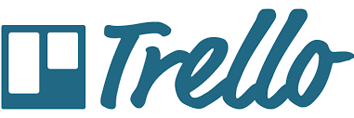
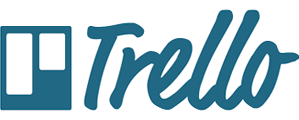
added eight tasks changed trello image size to match other images'size, and makes all images responsive

diff --git a/awesomeagile-webapp/src/main/resources/static/index.html b/awesomeagile-webapp/src/main/resources/static/index.html
@@ -10,8 +10,9 @@
 </head>
 <body>
     <div class="container">
-        <header class="page-header">
-            <h1>Awesome Agile <small>An Agile Coaching Resource</small></h1>
+        <header class="page-header row">
+            <div id="logo" class="col-sm-12">Awesome Agile </div>
+            <div id="subtitle" class="col-sm-offset-2 col-sm-10 col-xs-offset-1 col-sm-11">An Agile Coaching Resource</div>
         </header>
         <div class="row">
             <div class="svg-container">
@@ -95,21 +96,31 @@
                     </g>
                 </svg>
             </div>
+            <div class="row">
+	            <div class="col-xs-6 col-sm-3 panel panel-info"><span class="glyphicon glyphicon-open"></span> Definition of Ready</div>
+	            <div class="col-xs-6 col-sm-3 panel panel-info "><span class="glyphicon glyphicon-save"></span> Definition of Done </div>
+	            <div class="col-xs-6 col-sm-3 panel panel-info"> <span class="glyphicon glyphicon-user"></span> User Stories</div>
+	            <div class="col-xs-6  col-sm-3 panel panel-info"> <span class="glyphicon glyphicon-th"></span> Backlog Refinement</div>
+	            <div class="col-xs-6  col-sm-3 panel panel-info"><span class="glyphicon glyphicon-cog"></span> Source Code Control</div>
+	            <div class="col-xs-6  col-sm-3 panel panel-info"><span class="glyphicon glyphicon-retweet"></span> Continuous Integration</div>
+	            <div class="col-xs-6  col-sm-3 panel panel-info"><span class="glyphicon glyphicon-gift"></span> Pair Programming</div>
+	            <div class="col-xs-6  col-sm-3 panel panel-info"><span class="glyphicon glyphicon-tasks"></span> Estimation</div>
+            </div>
             <div class="col-xs-12 col-sm-12 col-md-12">
                 <div class="panel panel-info">
                     <div class="panel-heading">Tools</div>
                     <div class="panel-body">
                         <div class="col-xs-6 col-md-3">
-                            <a href="#" class="thumbnail"><img src="images/hackpad.png" alt="hackpad"></a>
+                            <a href="#" class="thumbnail"><img src="images/hackpad.png" alt="hackpad" class="img-responsive"></a>
                         </div>
                         <div class="col-xs-6 col-md-3">
-                            <a href="#" class="thumbnail"><img src="images/trello.png" alt="trello"></a>
+                            <a href="#" class="thumbnail"><img src="images/trello.png" alt="trello" class="img-responsive"></a>
                         </div>
                         <div class="col-xs-6 col-md-3">
-                            <a href="#" class="thumbnail"><img src="images/github.png" alt="github"></a>
+                            <a href="#" class="thumbnail"><img src="images/github.png" alt="github" class="img-responsive"></a>
                         </div>
                         <div class="col-xs-6 col-md-3">
-                            <a href="#" class="thumbnail"><img src="images/TravisCl.png" alt="TravisCl"></a>
+                            <a href="#" class="thumbnail"><img src="images/TravisCl.png" alt="TravisCl" class="img-responsive"></a>
                         </div>
                     </div>
                 </div>

diff --git a/awesomeagile-webapp/src/main/resources/static/css/main.css b/awesomeagile-webapp/src/main/resources/static/css/main.css
@@ -14,3 +14,12 @@
     left: 0;
     width: 100%;
 }
+
+#logo{
+	font-weight:bold;
+	font-size:36px;
+}
+#subtitle{
+	font-weight:bold;
+	font-size:24px;
+}
